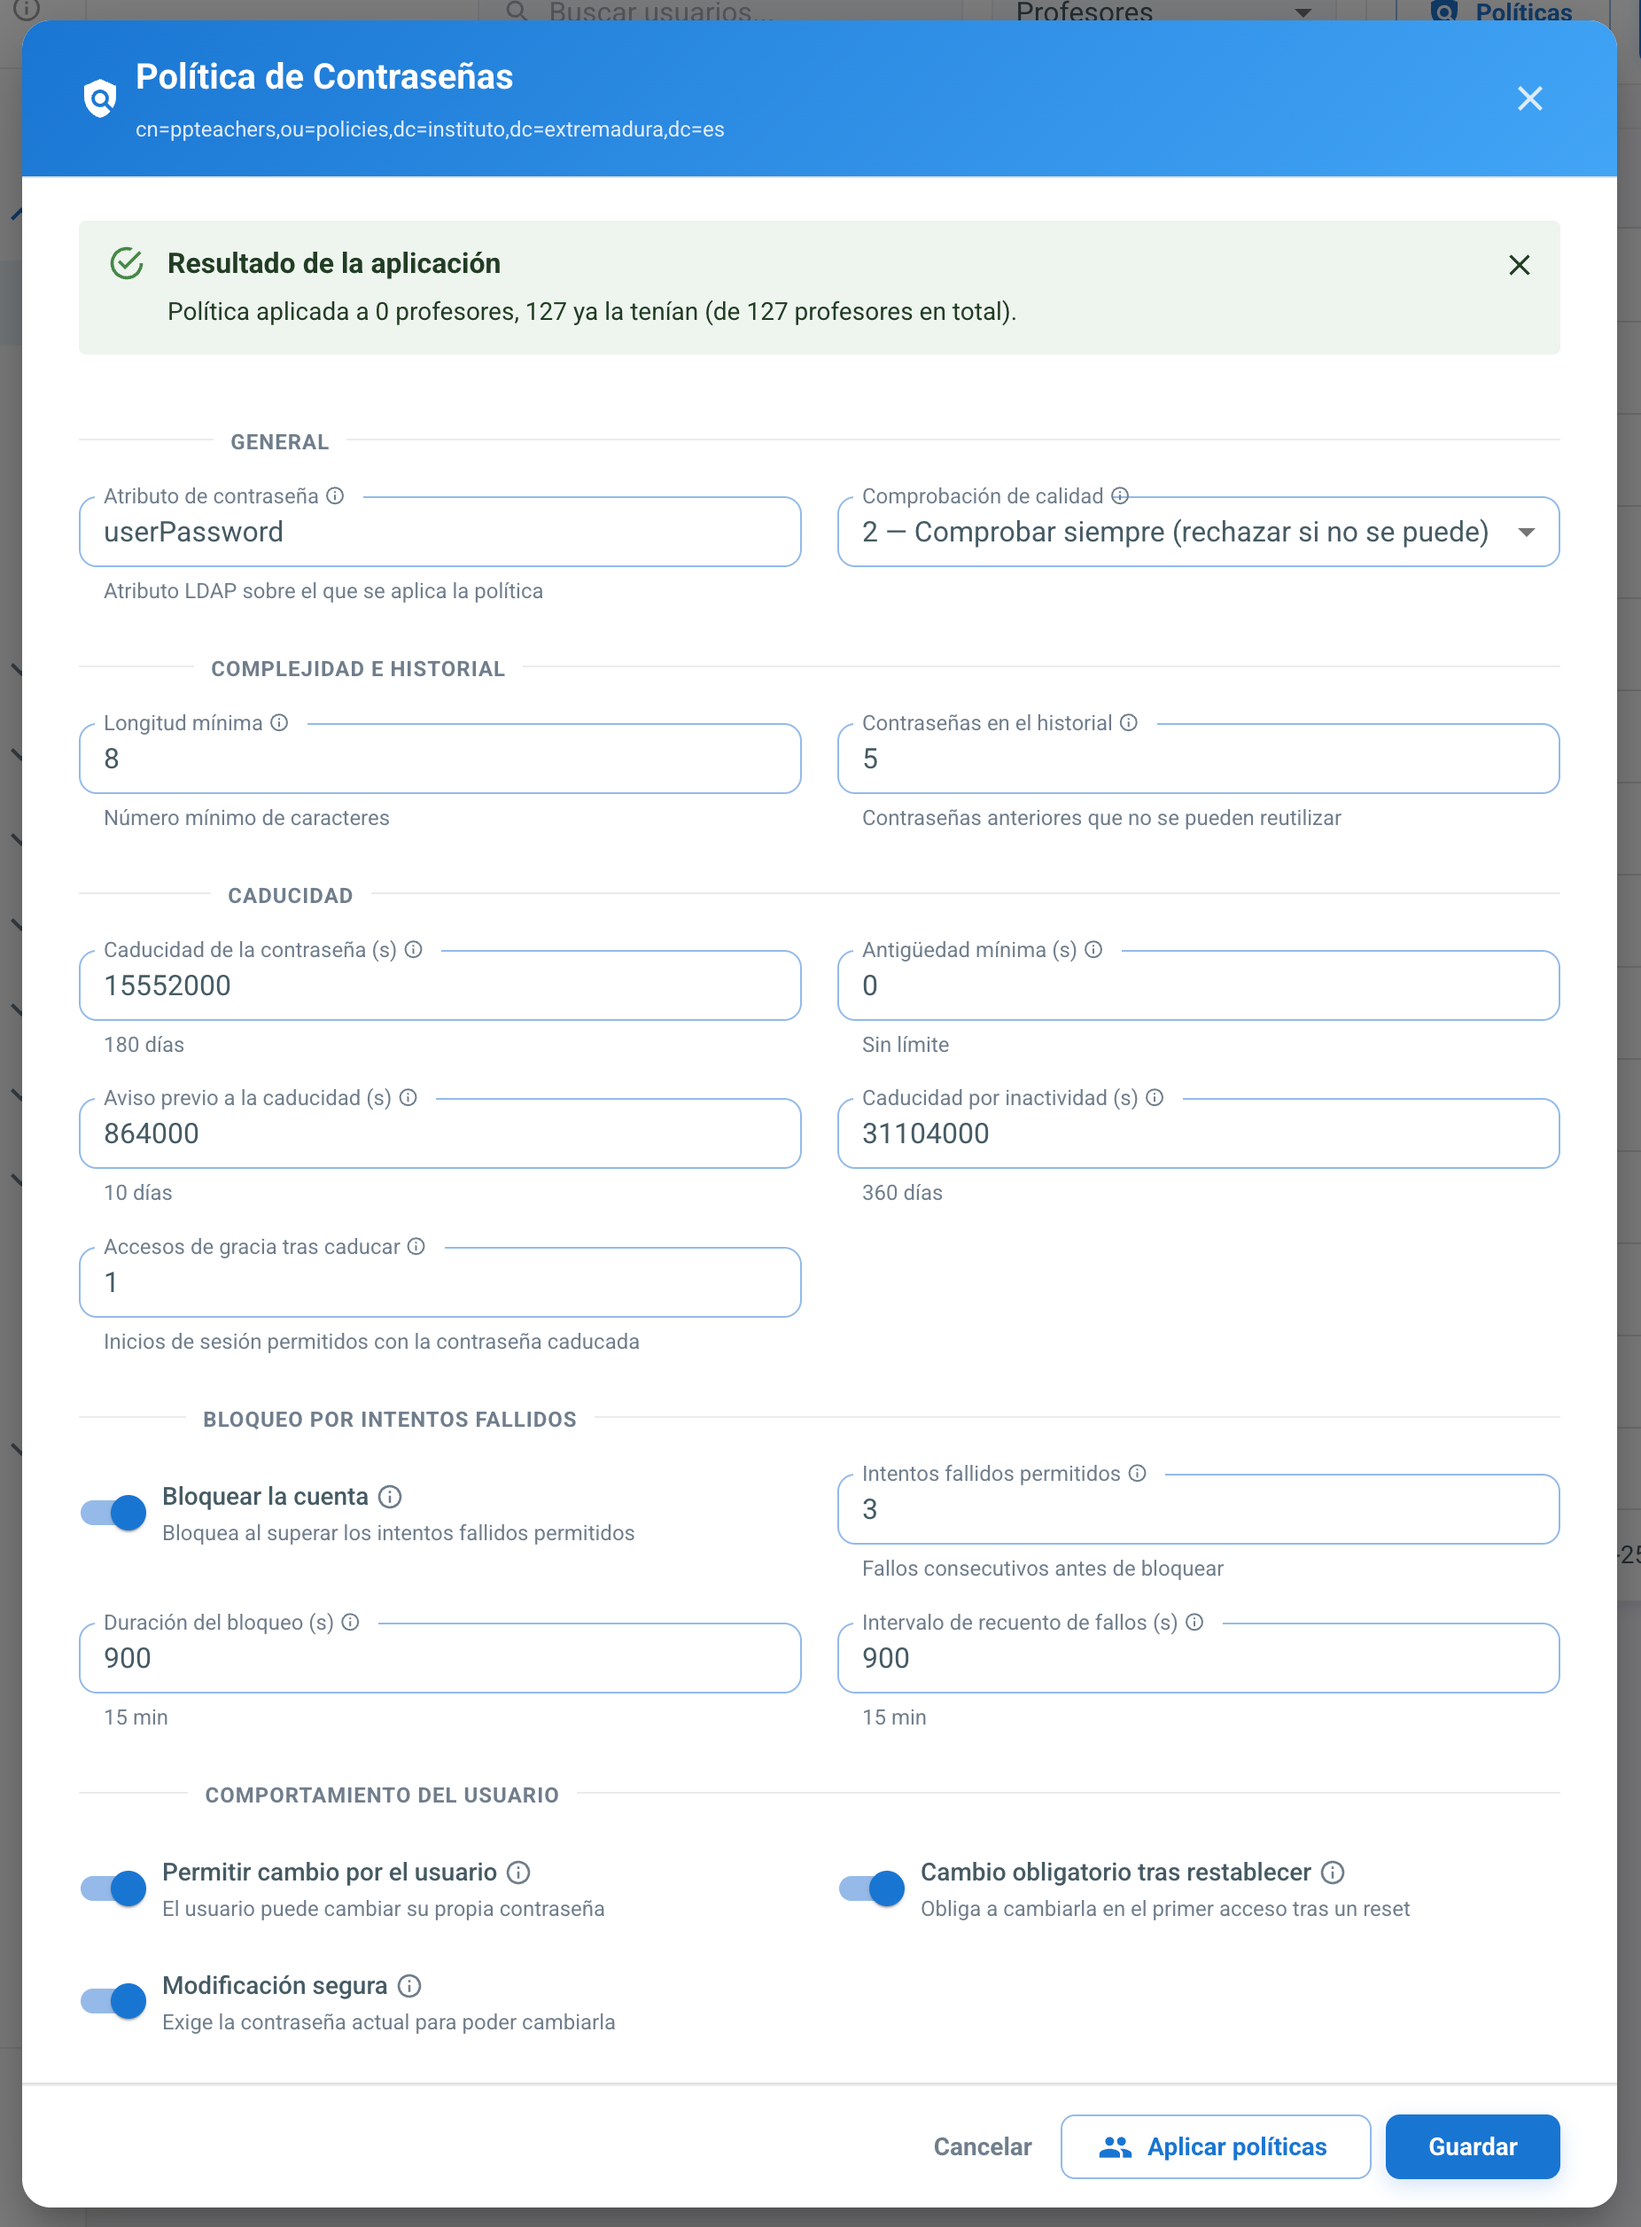
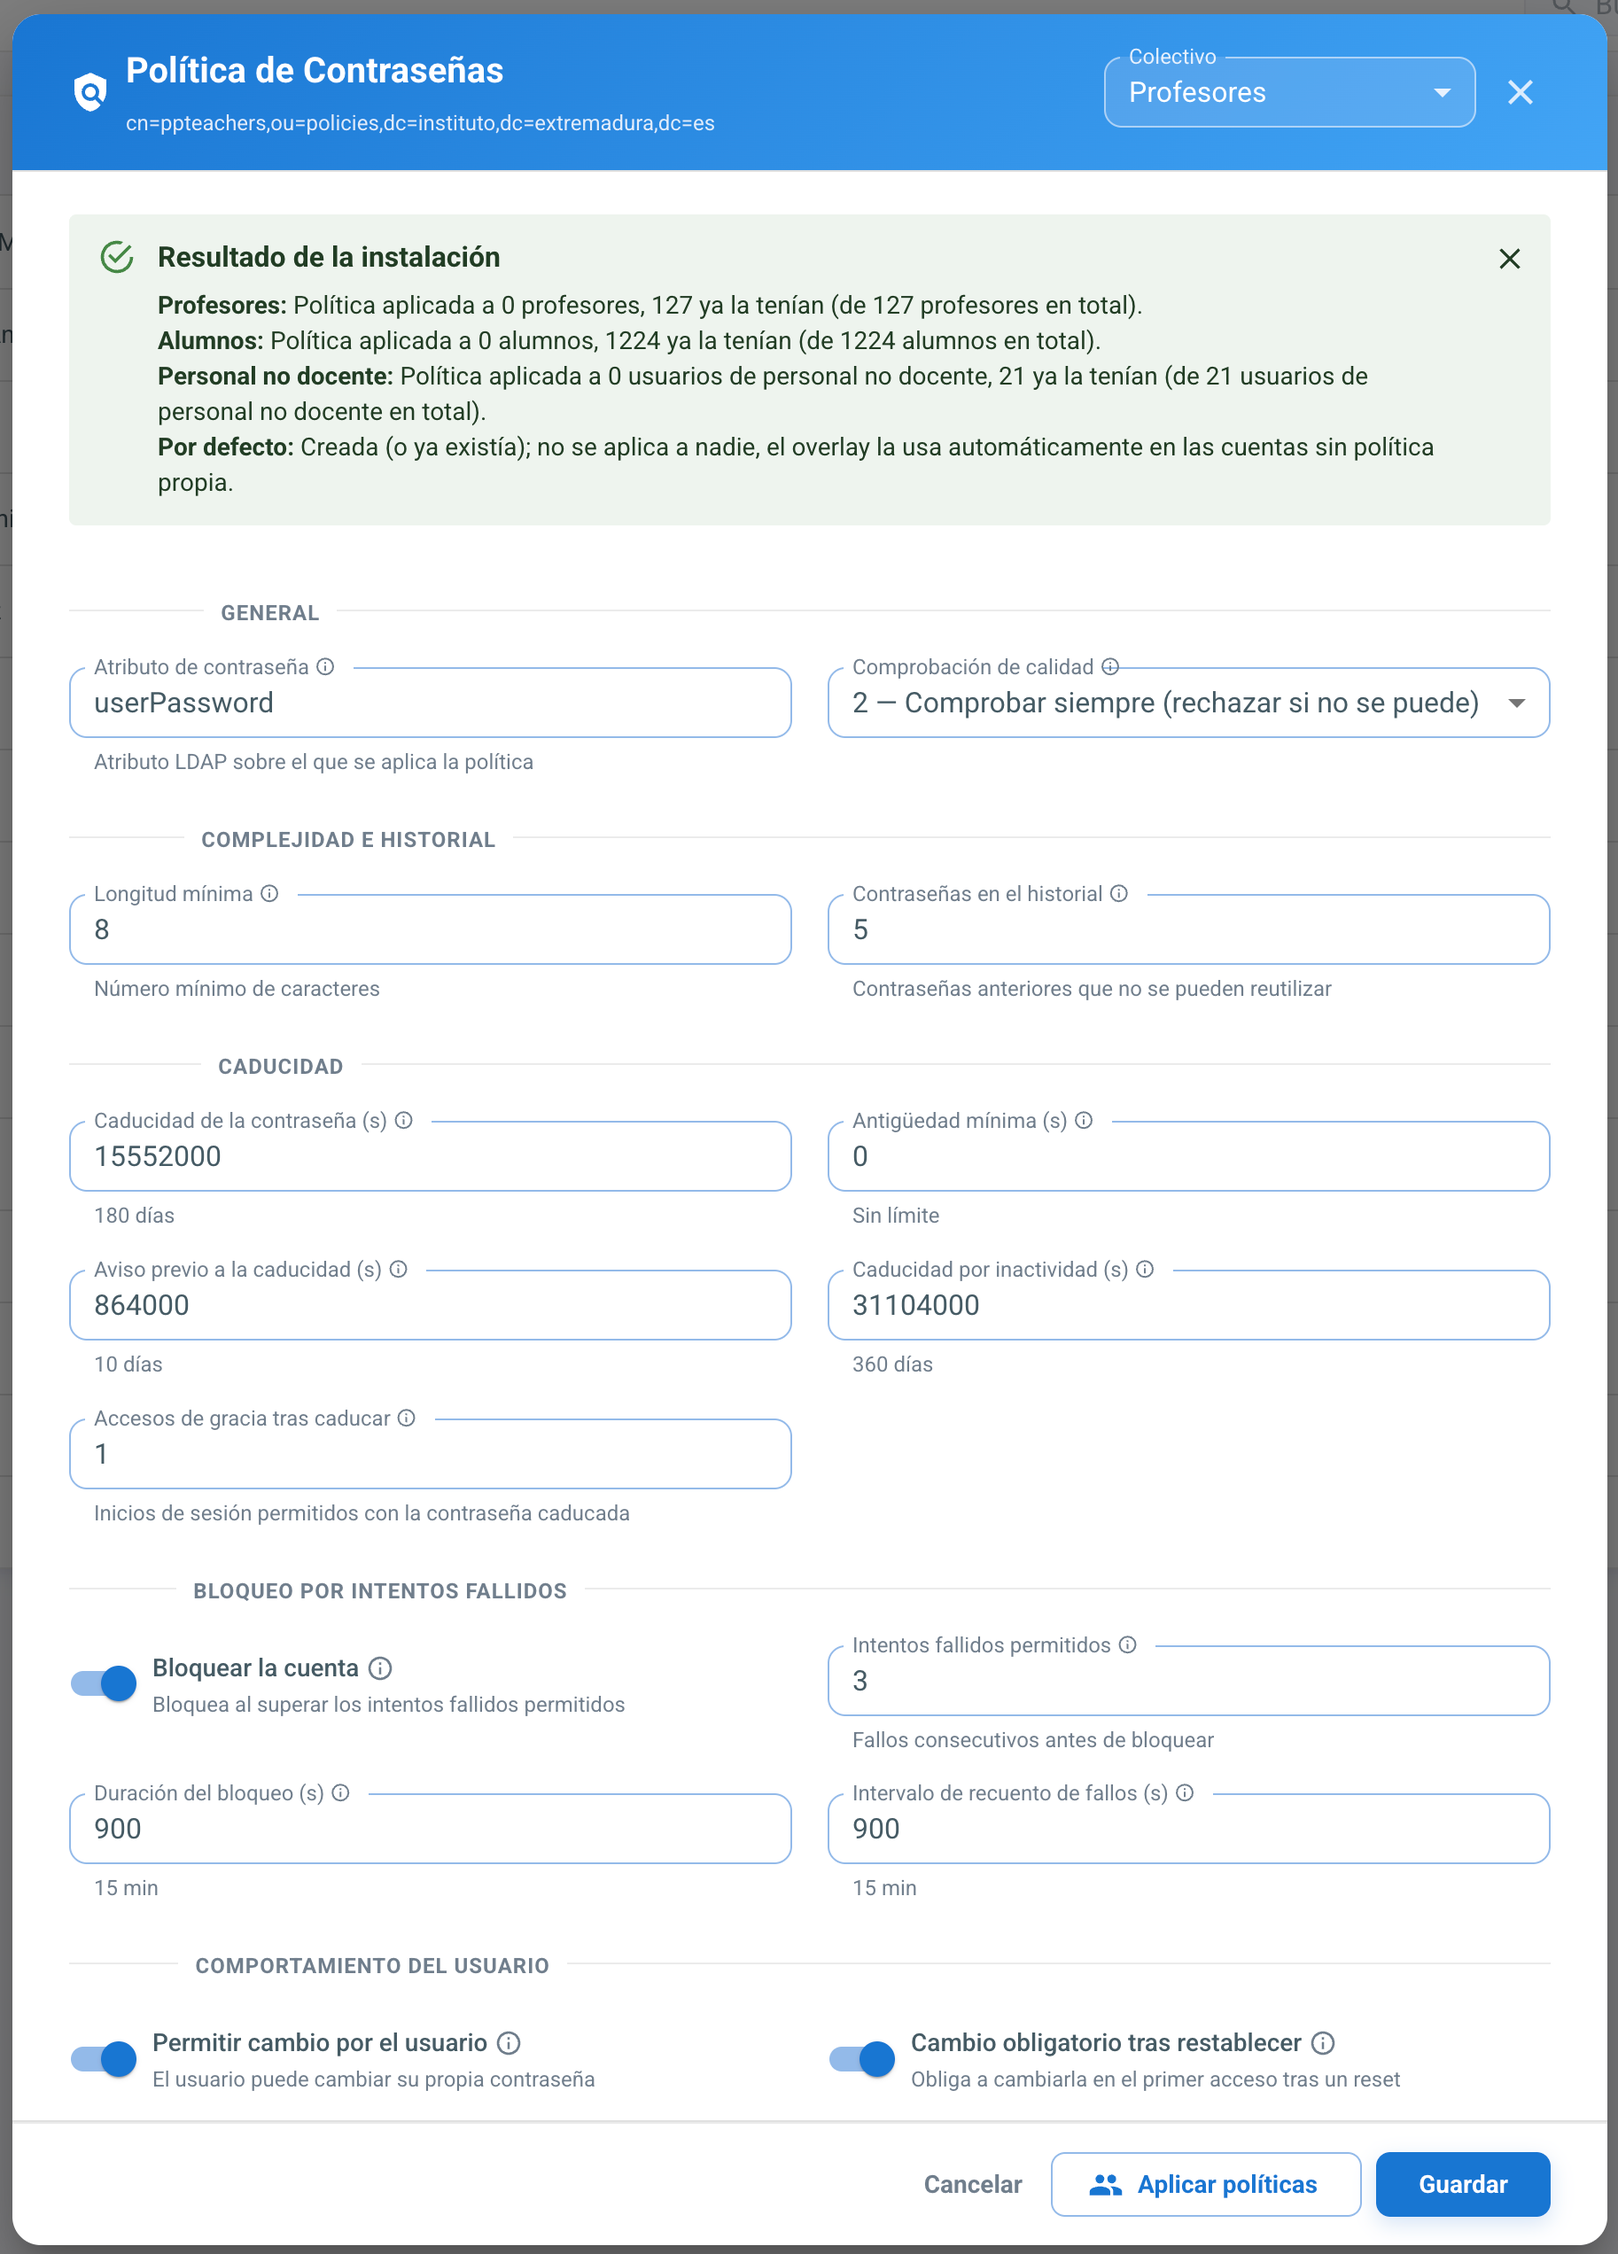
Actualiza documentación desde educontrol

diff --git a/docs/PASSWORD_POLICY.md b/docs/PASSWORD_POLICY.md
@@ -2,29 +2,40 @@
 
 EduControl gestiona desde la propia interfaz la **política de contraseñas del directorio**, que es la que impone a los usuarios los requisitos de longitud, caducidad, historial y bloqueo por intentos fallidos.
 
-La política se corresponde con una entrada `pwdPolicy` del directorio:
+Existe una política independiente por cada colectivo, cada una con su propia entrada `pwdPolicy` del directorio:
 
-```
-cn=ppteachers,ou=policies,dc=instituto,dc=extremadura,dc=es
-```
+| Colectivo | Entrada `pwdPolicy` |
+| --- | --- |
+| Profesores | `cn=ppteachers,ou=policies,dc=instituto,dc=extremadura,dc=es` |
+| Alumnos | `cn=ppstudents,ou=policies,dc=instituto,dc=extremadura,dc=es` |
+| Personal no docente | `cn=ppstaff,ou=policies,dc=instituto,dc=extremadura,dc=es` |
+| Por defecto | `cn=default,ou=policies,dc=instituto,dc=extremadura,dc=es` |
 
 Es el *overlay* **ppolicy** de OpenLDAP quien la aplica realmente: EduControl se limita a crearla, editarla y asignarla a los usuarios mediante el atributo `pwdPolicySubentry` de cada cuenta.
 
-Se accede desde *LDAP* → *Usuarios*, botón **Políticas**, en la barra superior.
+La política **Por defecto** es distinta a las otras tres: no se asigna a ningún usuario mediante `pwdPolicySubentry`. Es la que el overlay usa automáticamente, a través del parámetro `olcPPolicyDefault` de su configuración, para cualquier cuenta que no tenga ninguna política propia asignada — de modo que ninguna cuenta se quede sin política real por accidente, en lugar de quedar sin ningún tipo de control.
+
+Se accede desde *LDAP* → *Usuarios*, botón **Políticas**, en la barra superior. Una vez instaladas, un desplegable **Colectivo** en la parte superior del diálogo (Profesores, Alumnos, Personal no docente o Por defecto; Profesores por defecto) determina sobre qué política se está consultando o editando en cada momento. Antes de instalar no hay nada entre lo que elegir —las cuatro se instalan a la vez—, así que el desplegable no se muestra.
 
 ## 1. Instalación
 
-Si la entrada no existe en el directorio, el diálogo no muestra el formulario: únicamente informa de que la política **no está instalada** y advierte de que, mientras siga así, no se aplica ninguna restricción de complejidad, caducidad ni bloqueo a las cuentas.
+Si ninguna de las políticas existe todavía en el directorio, el diálogo no muestra ni el desplegable de colectivo ni el formulario: únicamente informa de que las políticas **no están instaladas** y advierte de que, mientras siga así, no se aplica ninguna restricción de complejidad, caducidad ni bloqueo a ningún usuario.
 
 ![Política de contraseñas no instalada](./img/instalar_politicas.png)
 
-Con el botón **Instalar políticas** EduControl:
+El botón **Instalar políticas** no instala solo la del colectivo seleccionado en el desplegable: crea de una vez las **cuatro** políticas del centro, si todavía no existieran. Por cada una:
 
 1. Crea la rama `ou=policies` si todavía no existiera.
-2. Crea el objeto `pwdPolicy` con los valores por defecto de la tabla siguiente.
-3. **Aplica la política a todos los profesores** e informa a cuántos se les ha asignado.
+2. Crea el objeto `pwdPolicy` con sus valores por defecto (los de la tabla siguiente para Profesores; sin ninguna restricción para Alumnos, Personal no docente y Por defecto, ver más abajo).
+3. **Aplica la política a todos los usuarios de ese colectivo** e informa de a cuántos se les ha asignado — excepto la de **Por defecto**, que no se aplica a nadie explícitamente, tal y como se explica arriba.
 
-Los valores por defecto con los que se crea son:
+Si alguna de las cuatro ya estaba instalada, se deja tal cual: no es un error, simplemente se instalan las que faltaban.
+
+Crear las políticas es prácticamente instantáneo, pero aplicarlas a los usuarios puede tardar más, dependiendo de cuántos tenga el centro. Al terminar, un resumen muestra por separado cuántos profesores, alumnos y personal no docente han recibido la política, cuántos ya la tenían y cuántos han fallado.
+
+> Crear la entrada `cn=default` no basta por sí sola: para que el overlay realmente la use como respaldo, su configuración (`olcPPolicyDefault`, en `cn=config`) tiene que apuntar a `cn=default,ou=policies,dc=instituto,dc=extremadura,dc=es`. Esa configuración del overlay está fuera del alcance de EduControl —requiere acceso privilegiado a `cn=config`, no la cuenta LDAP habitual de la aplicación— y hay que aplicarla aparte, por ejemplo con `ldapmodify -Y EXTERNAL` sobre `passwords/ppolicy-overlay-update-default.ldif` si el overlay ya estaba instalado con un valor distinto.
+
+Los valores por defecto con los que se crea la política de **Profesores** son:
 
 | Atributo | Valor | Significado |
 | --- | --- | --- |
@@ -45,9 +56,11 @@ Los valores por defecto con los que se crea son:
 | `pwdMustChange` | `TRUE` | Obliga a cambiarla en el primer acceso tras un restablecimiento |
 | `pwdSafeModify` | `TRUE` | Exige la contraseña actual para poder cambiarla |
 
+Las políticas de **Alumnos**, **Personal no docente** y **Por defecto** se crean en cambio sin ninguna restricción: comprobación de calidad desactivada, sin longitud mínima, sin historial, sin caducidad y sin bloqueo por intentos fallidos (todos los valores numéricos a `0` y los interruptores `pwdLockout`, `pwdMustChange` y `pwdSafeModify` a `FALSE`; `pwdAllowUserChange` se deja en `TRUE` para que el usuario pueda seguir cambiando su propia contraseña). Sirven como punto de partida neutro: se pueden editar después igual que la de Profesores en cuanto el centro quiera empezar a exigir algo a esas cuentas.
+
 ## 2. Edición
 
-Una vez instalada, el diálogo muestra el formulario con la configuración vigente, agrupada en cinco bloques: general, complejidad e historial, caducidad, bloqueo por intentos fallidos y comportamiento del usuario.
+Una vez instalada, el diálogo muestra el formulario con la configuración vigente del colectivo seleccionado en el desplegable, agrupada en cinco bloques: general, complejidad e historial, caducidad, bloqueo por intentos fallidos y comportamiento del usuario.
 
 ![Edición de la política de contraseñas](./img/editar_politicas.png)
 
@@ -55,17 +68,17 @@ Todos los valores son editables y se guardan directamente en el directorio. Los 
 
 Cada modificación queda registrada en el módulo de Auditoría con el detalle de los atributos que han cambiado.
 
-Los cambios se aplican al momento a todos los profesores que ya tengan la política asignada: no hace falta volver a aplicarla.
+Los cambios se aplican al momento a todos los usuarios del colectivo seleccionado que ya tengan su política asignada: no hace falta volver a aplicarla.
 
-## 3. Aplicación a los profesores
+## 3. Aplicación a un colectivo
 
-Crear la política no basta: cada cuenta debe apuntar a ella. El botón **Aplicar políticas** recorre el directorio y asigna la política a **todos los profesores**, entendiendo por tales los usuarios cuyo directorio personal cuelga de `/home/profesor`, el mismo criterio con el que la plataforma calcula el tipo de usuario.
+Crear la política no basta: cada cuenta debe apuntar a ella. El botón **Aplicar políticas** recorre el directorio y asigna la política del colectivo seleccionado en el desplegable a **todos sus usuarios**, entendiendo por tales los usuarios cuyo directorio personal cuelga de `/home/profesor`, `/home/alumnos` o `/home/staff` según corresponda — el mismo criterio con el que la plataforma calcula el tipo de usuario. Con **Por defecto** seleccionada no aparece este botón: esa política no se asigna a ningún colectivo, es el propio overlay quien la usa automáticamente (ver [Instalación](#1-instalación)).
 
-Al terminar informa de a cuántos profesores se ha aplicado, cuántos ya la tenían y cuántos han fallado, con el detalle de los errores en su caso. Los usuarios que ya la tenían asignada no se modifican.
+Al terminar informa de a cuántos usuarios se ha aplicado, cuántos ya la tenían y cuántos han fallado, con el detalle de los errores en su caso. Los usuarios que ya la tenían asignada no se modifican.
 
 Es una operación que puede repetirse cuantas veces se quiera: conviene lanzarla después de dar de alta profesores fuera de las importaciones, ya que las importaciones de Rayuela y el alta manual de usuarios ya la asignan por su cuenta.
 
-En el módulo de [importación de profesores](./LDAP.md#módulo-de-importación) la asignación también se realiza automáticamente, pero ahí es opcional: un switch **Aplicar políticas de contraseñas**, activado por defecto, permite desmarcarla para ese envío en concreto. El switch aparece deshabilitado, con un icono de información explicando el motivo, cuando la política todavía no está instalada en el directorio.
+En los módulos de [importación de profesores y de alumnos](./LDAP.md#módulo-de-importación) la asignación también se realiza automáticamente, sin ninguna opción para desactivarla: todo profesor importado recibe `ppteachers` y todo alumno importado recibe `ppstudents`, siempre que la política correspondiente ya esté instalada en el directorio.
 
 ## 4. Estado de la cuenta de un usuario
 

diff --git a/docs/LDAP.md b/docs/LDAP.md
@@ -62,6 +62,8 @@ Al igual que con los profesores, se crea la cuenta de cada alumno con su contras
 
 Su particularidad es que **crea automáticamente los cursos y grupos que no existan** en el directorio: si un alumno pertenece a un grupo aún no dado de alta, EduControl lo crea y lo asigna, evitando tener que prepararlos de antemano.
 
+A los alumnos importados se les aplica además la [política de contraseñas](./PASSWORD_POLICY.md) `ppstudents` del centro.
+
 Opciones disponibles:
 
 - **Borrar los que no estén en el fichero:** da de baja a los alumnos que ya no figuran en la exportación.
